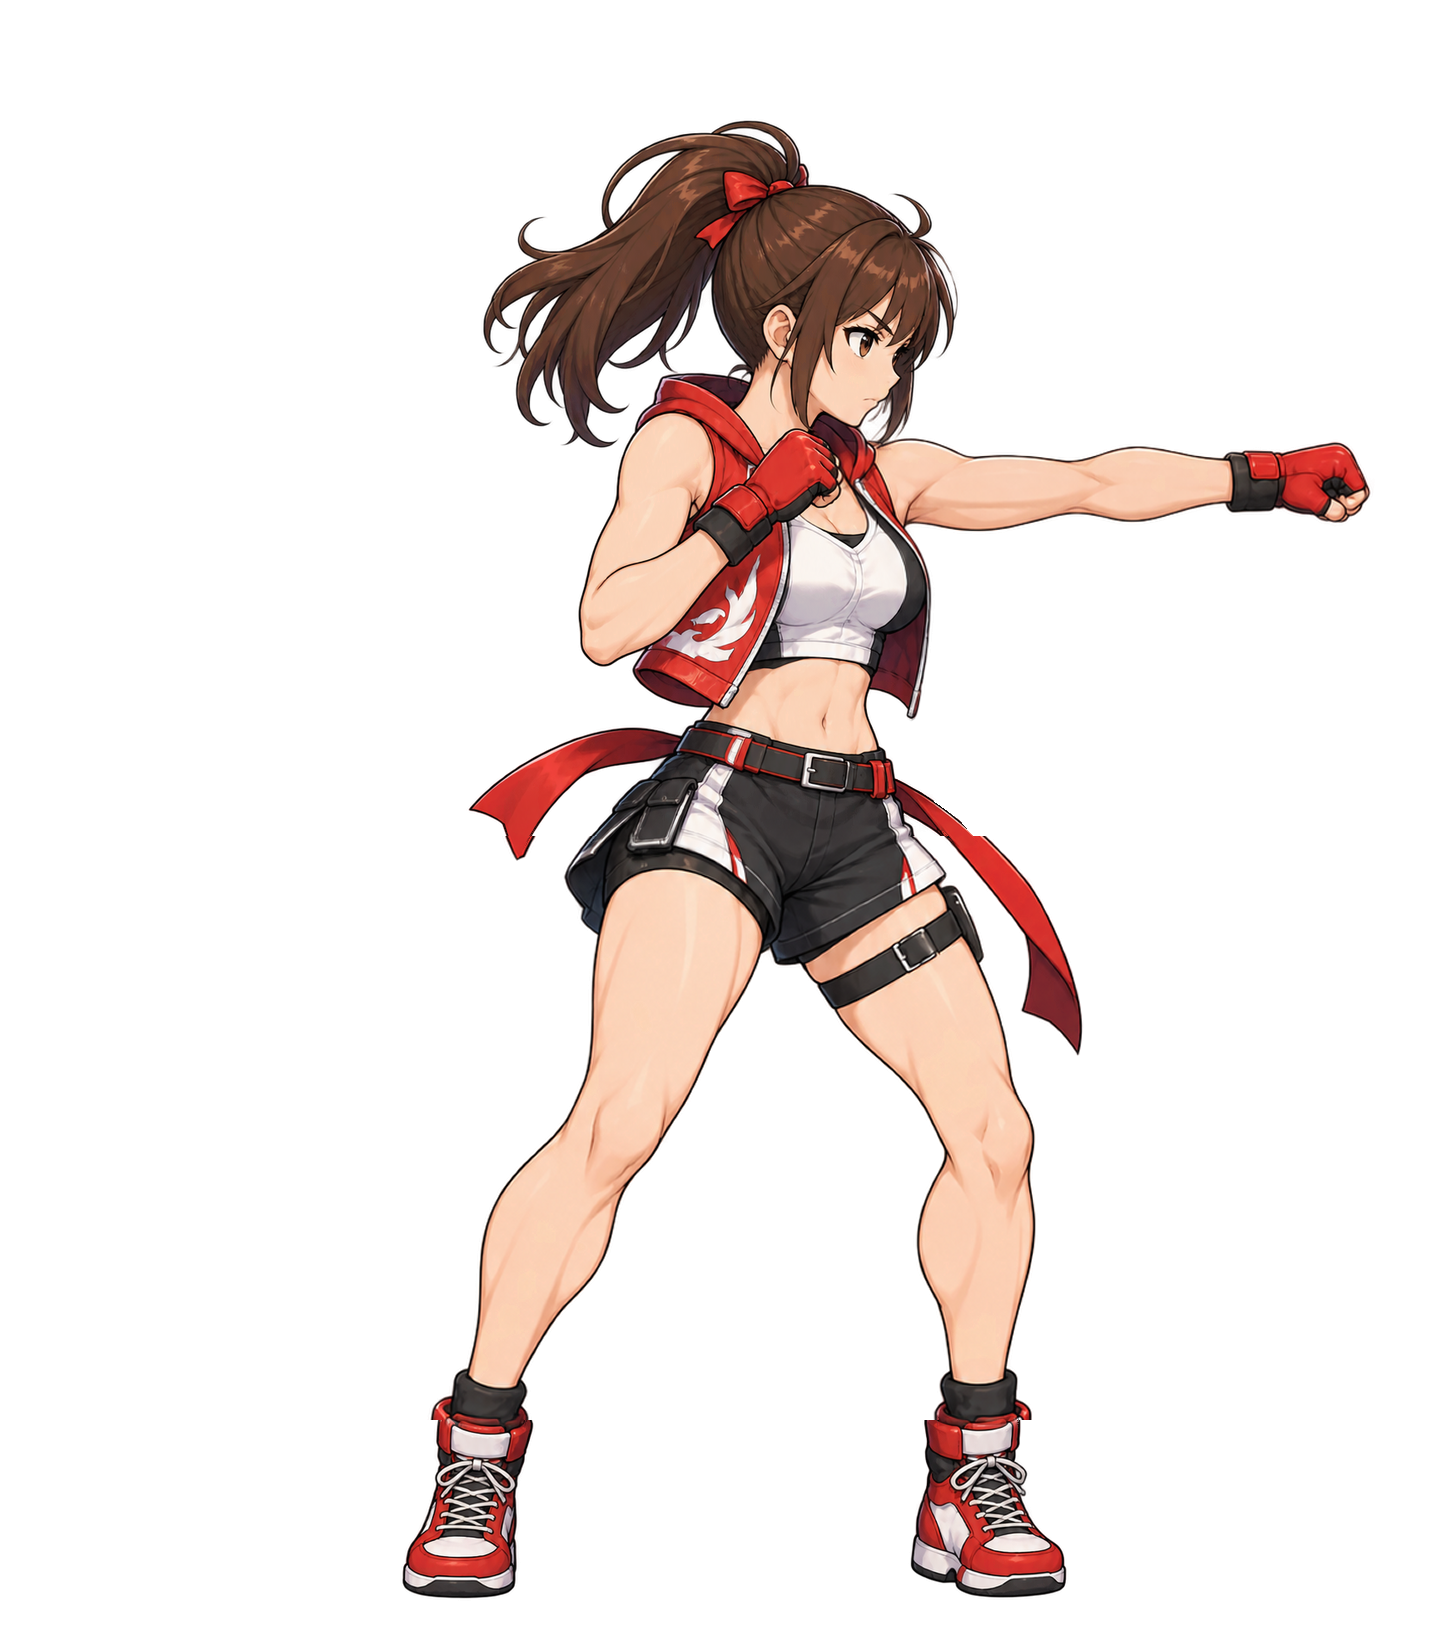
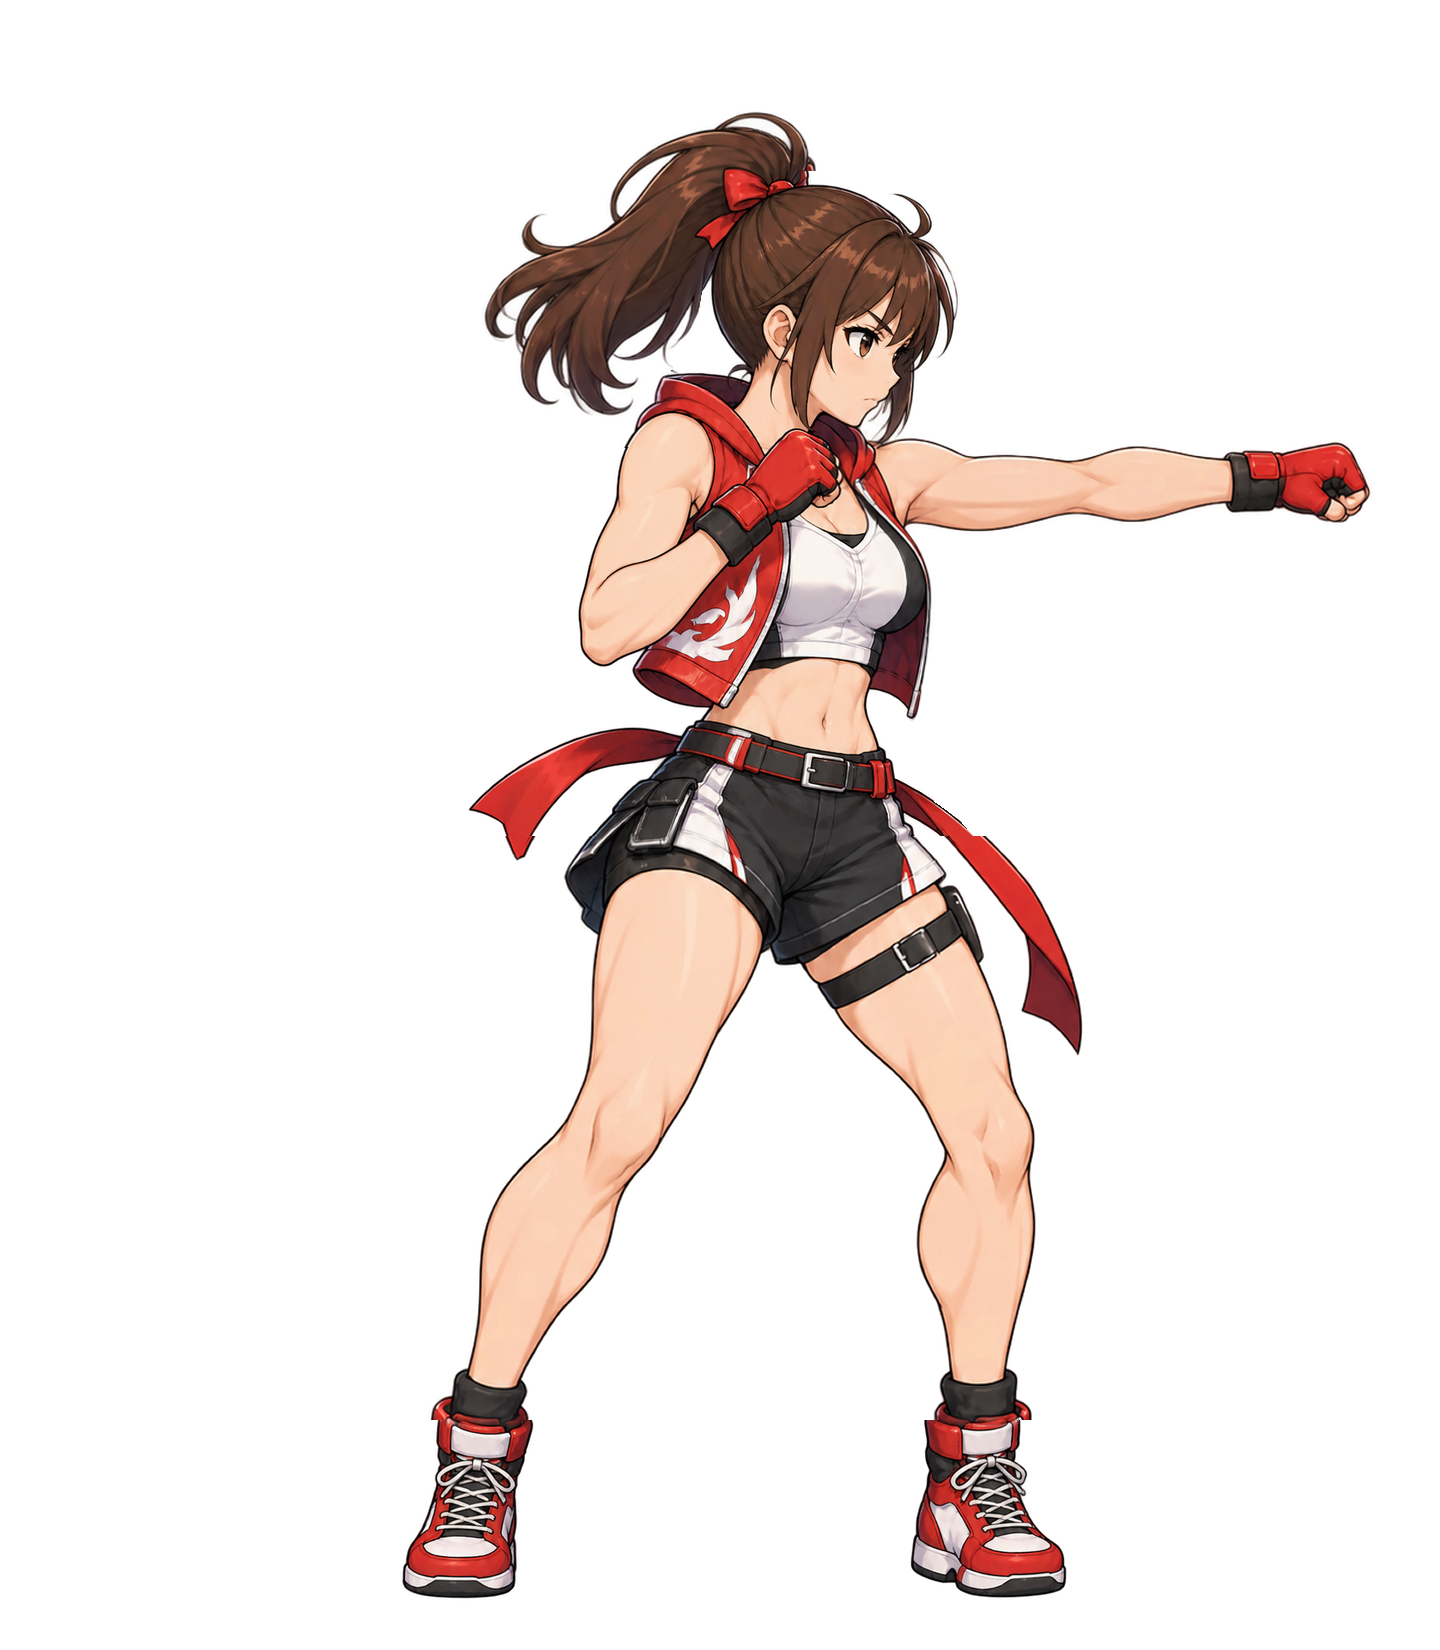
left_jab update

Changed region(s): [[0.3125, 0.0618, 0.5625, 0.2782]]

diff --git a/Character/karen/anim/left_jab.md b/Character/karen/anim/left_jab.md
@@ -5,7 +5,7 @@
 - 基本画像：`../fighting_base.png`
 - Karenが本人の左腕でジャブを1回行い、基本姿勢へ戻る5フレームを作成する。
 - 生成前にプロジェクト直下の `AGENTS.md`、`Character/common.md`、`Character/karen/character.md`、`Character/karen/image.png`、`Character/karen/fighting_base.png` を確認する。PNGは実際に画像として確認し、2枚とも画像生成の参照に使用する。
-- キャラクターデザイン、衣装、右向き、カメラ角度、体格、描画スタイルを維持する。変更するのはジャブに必要な動作だけとする。
+- キャラクターデザイン、衣装、右向き、カメラ角度、体格、描画スタイルを維持する。変更するのはジャブに必要な動作と、それに伴う下記のポニーテールの揺れだけとする。
 - 「左」は本人の解剖学的な左を指す。現行の基本画像では、画面右側の拳が左拳、画面右側の太もものベルトが左脚の目印。画面左側の拳は右手のガード、画面左側の靴は右足の軸足である。参照画像を照合して判断し、左右反転や右パンチで代用しない。
 
 ## 生成と仕上げを分ける
@@ -34,7 +34,7 @@
 - 前進量は中央配置オフセットΔXを除いた動作量で測定する。フレーム3だけキャンバス内で中央寄せし直さない。拳がはみ出す場合は全5枚の幅を左右均等に拡張し、共通ΔXを再計算する。
 - 右軸足を固定したまま目標前進を作る際は、脚の長さ、関節の接続、基本スケールを優先して確認する。無理な変形で数値を満たさず、自然な姿勢で目標範囲を満たせない場合は具体的な制約を報告する。
 - フレーム3→4では身体各部の体格・比率を維持する。戻り動作に必要な関節角度、部位の位置関係、重なり、投影上の形状変化は許可する。骨盤・膝・足の相互間隔を一律に固定しない。
-- 意図的な上下動は加えない。小さな関節運動や描画誤差は下記の許容差で扱う。
+- 頭・胴体に意図的な上下動は加えない。小さな関節運動や描画誤差は下記の許容差で扱う。ポニーテールの毛束・毛先の浮きは「前進に伴う髪の揺れ」に従って加える。
 
 ## 左肩の接続と自然な腕の長さ（必須）
 
@@ -55,6 +55,20 @@
 - 関節計算で骨の長さが一致していても、表面の太さ・輪郭・陰影が不自然なら不合格。数値を通すために股関節や膝の基準点を恣意的にずらさない。過去の出力の変形した太ももを正解として固定・再利用しない。
 - フレーム2→3→4で膝の移動と太ももの形を連続させ、最大伸長時だけ筋肉量や脚の太さが変わることを禁止する。修正の対象は両脚を確認し、特に右軸脚の太ももと膝を重点的に確認する。修正済みの自然な左肩・左腕、右手ガード、中央配置は維持する。
 - 骨盤前進60px（許容55〜65px）、右軸足固定、靴底高さ、脚の長さを同時に満たせない場合は、無理な変形や無断の前進量変更で合わせず、両立しない条件を具体的に報告する。
+
+## 前進に伴う髪の揺れ（必須）
+
+- フレーム2〜4ではポニーテールに前進の慣性による小さな揺れを加える。頭と同じ平行移動だけで済ませず、頭に対する毛束の形と毛先の位置を変化させる。髪型・髪の長さ・色・毛量・主要な毛束の構成は維持する。
+- 回転方向は、画像を正面から見た画面上の反時計回りを指す。結び目から先の毛束が少し反時計回りにしなり、後方の髪が軽く浮く動きとする。大きく振り回す、風で水平になびかせる、毛束を伸ばす動きは加えない。
+- 顔、頭蓋、前髪、顔まわりの髪、結び目と赤いリボンの取り付け位置は頭に対して維持する。結び目を支点に、根元は小さく、毛先ほど大きく柔らかく動かす。頭全体や髪全体を一枚の板として回転させない。
+- 反時計回りのしなりと浮きは毛束の曲がりで表現する。左下へ垂れた髪を単純に剛体回転すると毛先が下がる場合があるため、回転の指定だけで浮いたと判定しない。主要な後方の毛先が、頭の平行移動を差し引いた基本姿勢に対して少し上へ移動していることも確認する。
+- フレーム1：基本画像の髪をそのまま使用する。
+- フレーム2：前進に少し遅れて毛束が浮き始める。フレーム3の最大の浮きのおおむね半分とし、毛先に小さなしなりを見せる。
+- フレーム3：髪の浮きを最大にする。H=1650pxでは主要な後方の毛先の上方移動を目安20〜35pxとし、全身表示でも基本姿勢との差が読み取れる程度の小さな反時計回りのしなりを加える。数値のために毛束を引き伸ばさない。
+- フレーム4：毛先にわずかな遅れを残しながら浮きとしなりを戻す。最大の浮きの約1/3を目安にし、フレーム5で突然髪型が切り替わらないようにする。
+- フレーム5：フレーム1と完全一致。髪も基本姿勢へ戻す。追加フレームや大きな逆方向への振り返しは加えない。
+- 毛束の根元の断裂、リボンからの脱落、二重の毛先、元の髪の残像、頭や肩への不自然な食い込みは禁止する。動く髪を基本画像の固定合成で上書きしない。背景を含めて編集し、元の毛先を残さない。
+- 頭頂・頭部寸法の固定検査は頭蓋を覆う髪と顔を基準にし、揺れるポニーテールの外接矩形や毛先を頭部サイズの判定に使わない。髪の揺れを理由に顔・頭・胴体を動かしたり拡大縮小したりしない。
 
 ## 仕上げで許可する処理
 
@@ -126,7 +140,7 @@
 - 左右の靴底Yは、それぞれの基本画像の基準から±6px以内。右靴底中心Xは基準から±6px以内。測定ではアルファ200以上の靴本体を使い、孤立したノイズ画素を除く。両足の基準をひとつの水平線にまとめない。
 - 靴の向きは基準に対して±3度以内。足浮きや目立つ足滑りがある場合は数値内でも修正する。
 - 右拳中心と顔の基準点の相対位置は、基本画像との差がX・Yそれぞれ±12px以内。右腕のガード形状と角度に目立つ変化がないことを併せて確認する。
-- 髪の跳ね毛を除く頭頂のYは、基準から±12px以内。意図的な跳ねや沈み込みを加えない。
+- 揺れるポニーテールと跳ね毛を除く、頭蓋を覆う髪の頭頂Yは、基準から±12px以内。意図的な跳ねや沈み込みを加えない。
 - 頭部、胴体長、骨盤幅、靴など姿勢の影響が小さい対応寸法は、基本画像に対して原則±5%以内。隣接フレームの同じ部位の変動は原則3%以内。関節運動や重なりによる見かけの差は、比率を保っていることが確認できる場合に限り許可し、検査記録に理由を残す。
 - 左肩の付け根・肩の丸み・アームホール・上腕の連続性と、体格に対する上腕・前腕・グローブの自然な大きさを必ず目視確認する。低い付け根や短縮された腕は、その他の座標や画素一致が合格でも不合格とする。
 - フレーム3の肩から拳への軸は水平に対して±5度以内。肘はおおむね170〜180度で、目視で伸び切ったジャブと読めること。フレーム2・4に一直線の腕を要求しない。
@@ -137,7 +151,7 @@
 1. PNGの枚数・寸法・RGBA・背景透過・命名と、フレーム1/5の画素一致を機械的に確認する。
 2. 基本画像をX=ΔX、Y=0に配置して、全フレームを同一表示倍率で重ね、右軸足、左右の靴底、頭、骨盤、右手のガードと各部の体格を確認する。画像中心基準の開始位置も確認する。比較のために画像ごとに自動フィットしない。
 3. 拳と骨盤の位置をフレーム順に比較し、2→3の伸長・前進と3→4の復帰が明確であることを確認する。 フレーム3の骨盤前進が55〜65px（H=1650の場合）になっていることを測定し、拳の到達距離も腕の引き伸ばしではなく上体の前進で増えていることを確認する。
-4. 連続再生で1→2→3→4→5→1を確認する。再生確認用の速度は検査条件として記録し、指定されていないゲーム内の再生速度を決めつけない。
+4. 髪は結び目と顔の位置を揃えた比較も行い、頭の平行移動を除いて2→3の反時計回りのしなり・毛先の上昇と3→4→5の収まりを確認する。ZIP内PNGで髪が固定合成によって動かなくなっていないこと、毛先と結び目に継ぎ目・残像がないことを拡大確認する。連続再生で1→2→3→4→5→1を確認する。再生確認用の速度は検査条件として記録し、指定されていないゲーム内の再生速度を決めつけない。
 5. 実寸、靴底の最大ずれ、体格比較、目視確認、実施した補正、未解決項目を簡潔に報告する。実測していない値を確認済みと書かない。
 6. ZIP作成後にZIP内のPNGを実際に読み直し、その画像で左肩〜拳、およびショートパンツ裾〜両太もも〜膝〜すね上部の拡大比較と全身の同倍率比較を行う。生成直後の表示画像だけで判定しない。肩関節・肘・手首の位置、各節の長さ、肩とアームホールのつながりを確認し、仕上げによって低い付け根や短い腕へ変わっていないことを検査する。基本画像とフレーム2・3・4の脚も同倍率で並べ、特に右軸脚の外側輪郭・内側輪郭・膝位置・陰影の流れを確認する。靴底の数値一致だけでは合格にしない。ユーザーへ表示する最終プレビューも、このZIP内PNGから作成する。
 7. 必須条件または許容差を満たせないフレームを完成ZIPに含めない。未完成の場合は原因を具体的に報告し、生成回数だけを根拠に合格扱いしない。
